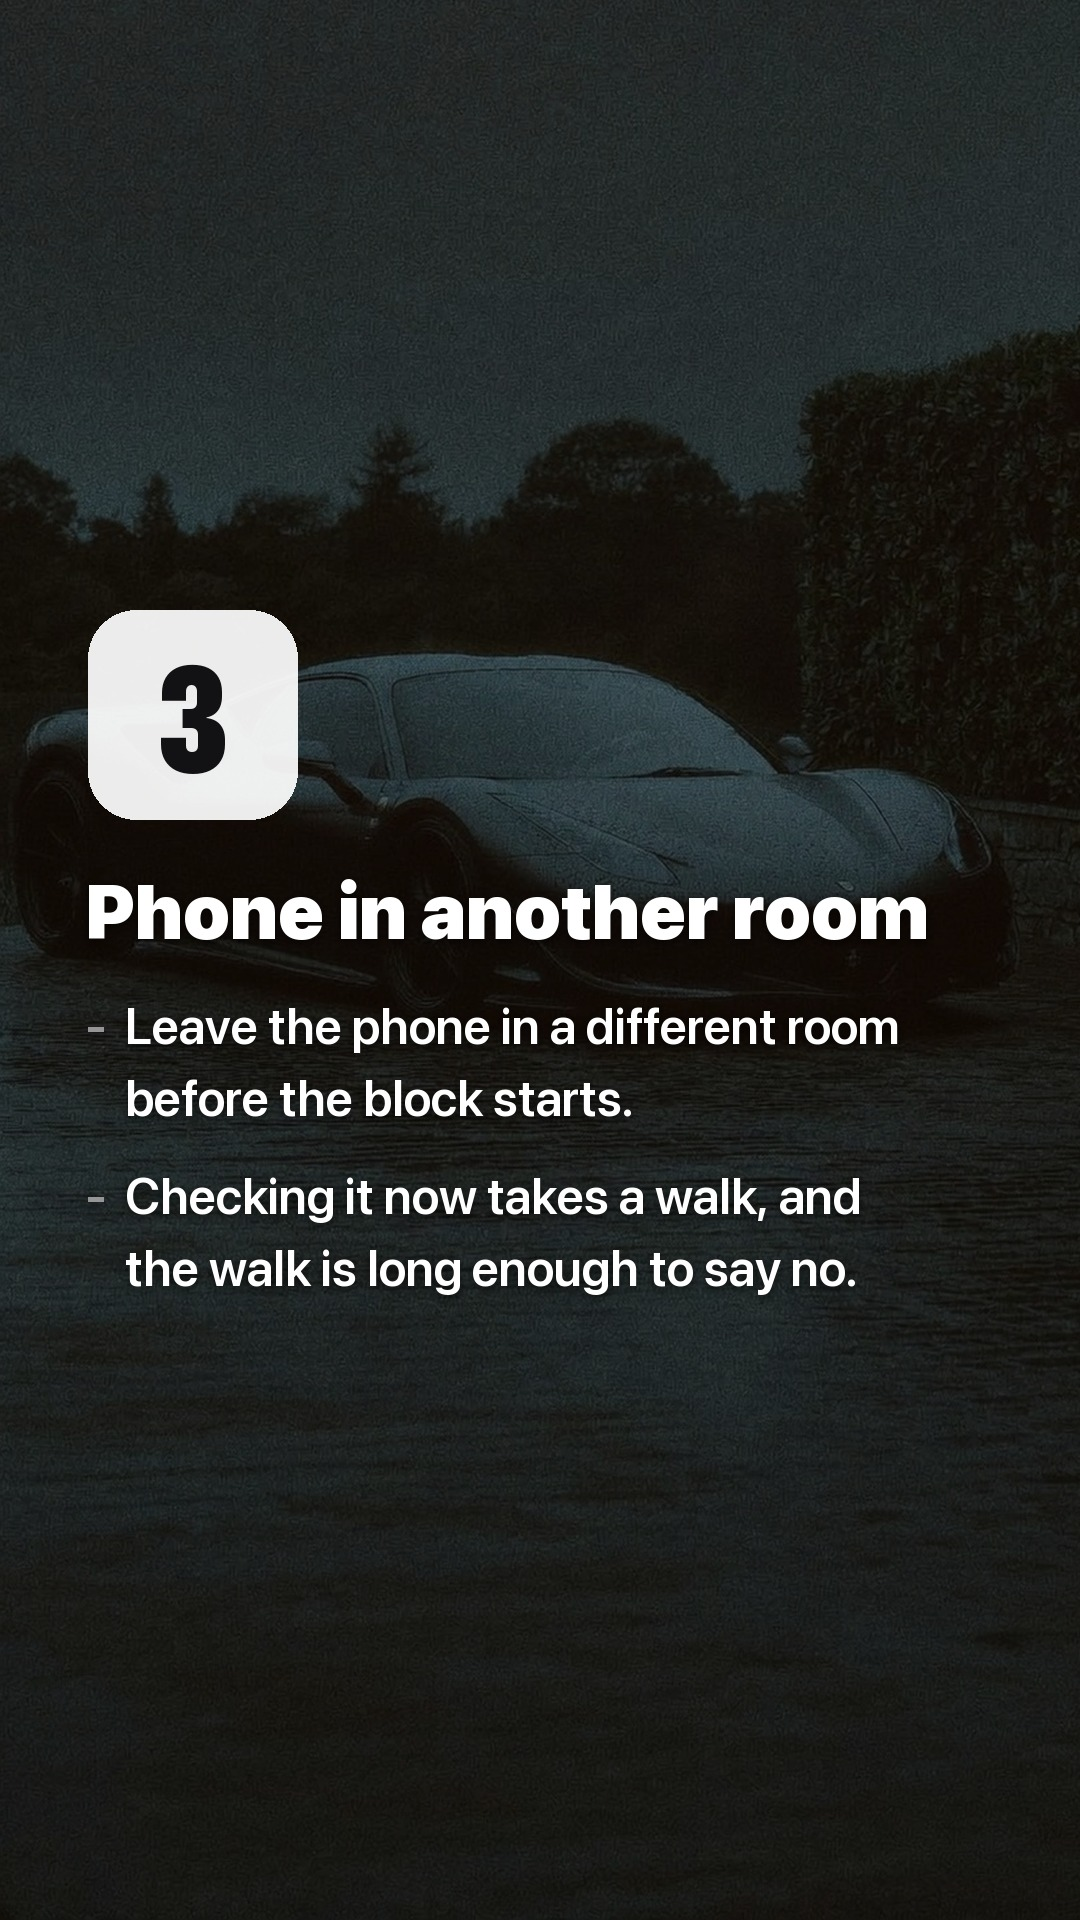
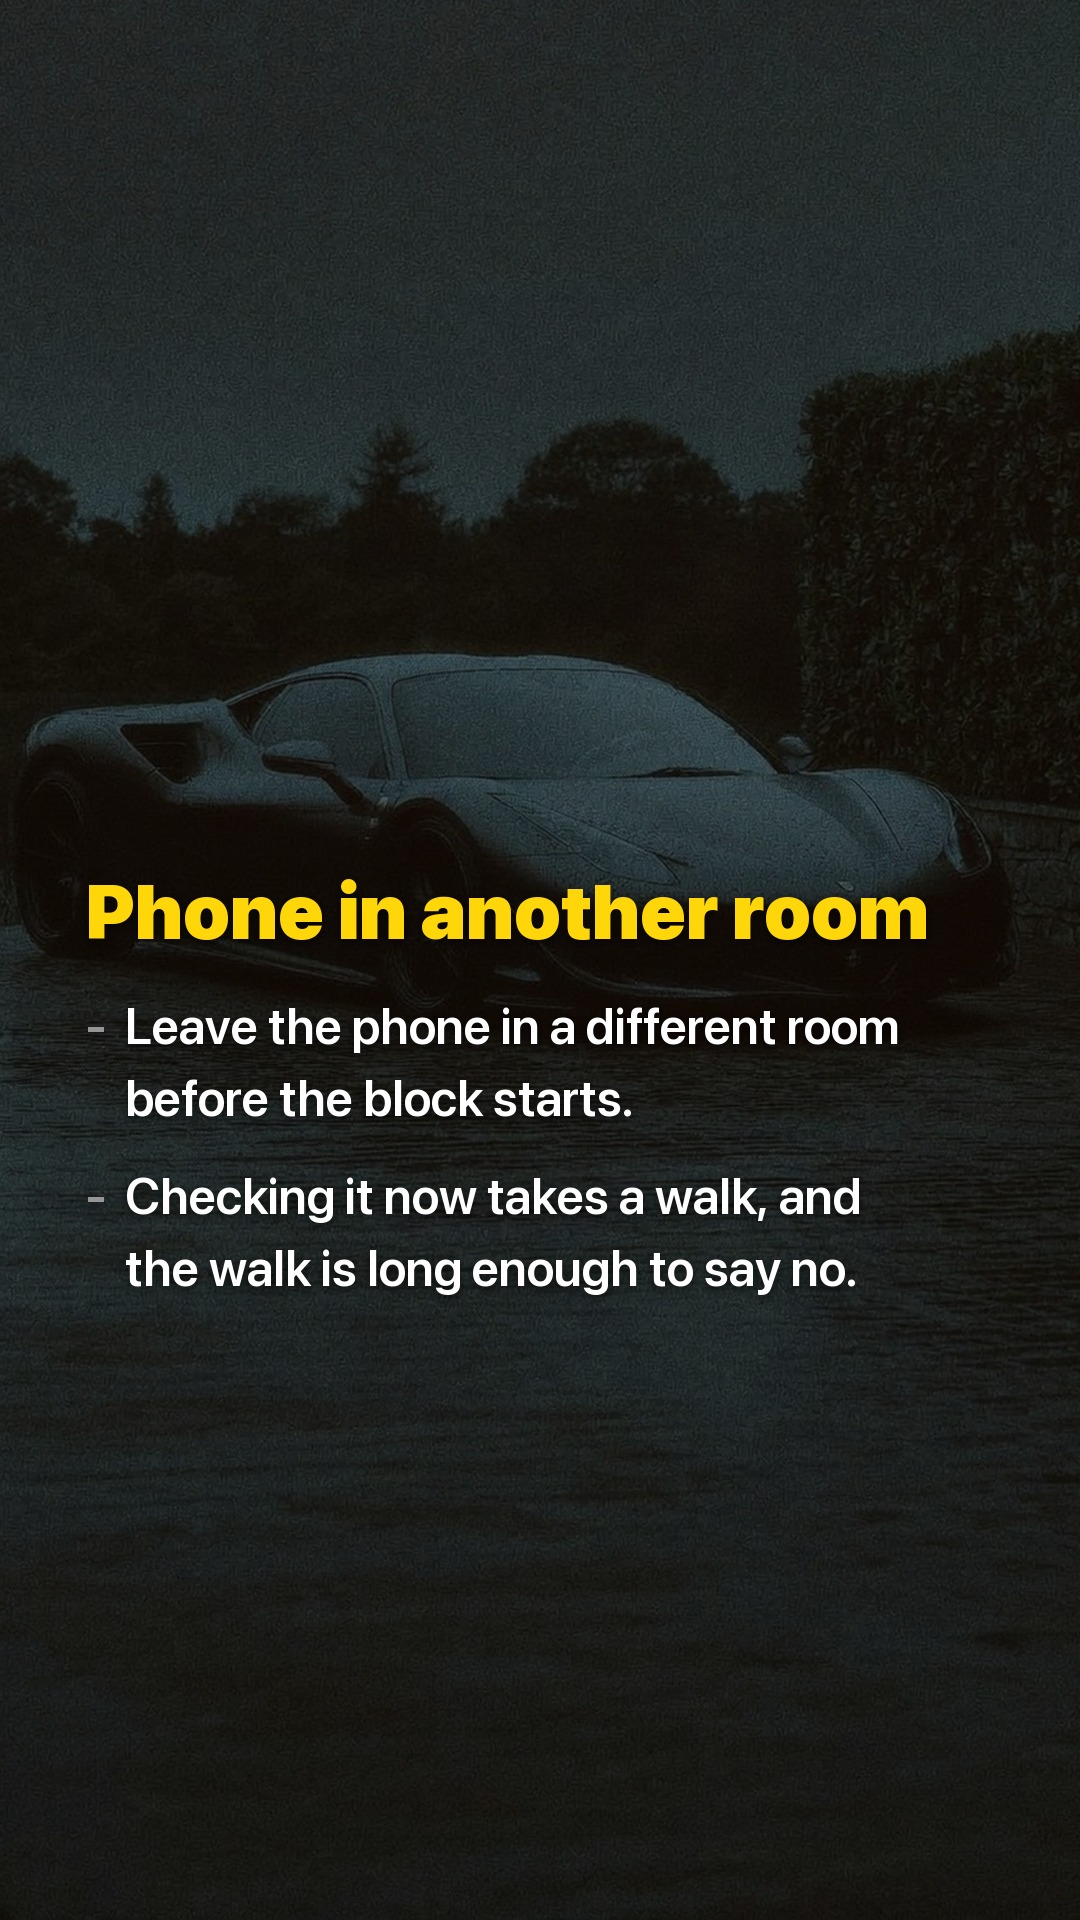
lock-in-anyway-4: drop the numbered squares on rules 02-05, yellow titles like screentime
Thinh: "remove the numbers and the squares, look at how screentime does it".
rule_slide badge=False, title_fill=YELLOW. Hook 01 and card 06 untouched.

Changed region(s): [[0.0611, 0.3125, 0.8556, 0.5]]

diff --git a/tools/gen-lock-in-anyway-4.py b/tools/gen-lock-in-anyway-4.py
@@ -26,6 +26,12 @@ to a dusk frame:
   04 rule 3   bg-h88  supercars-dusk     band luma 28.2
   05 rule 4   bg-n04  villa-day          band luma 57.8
   06 card     bg-h37  supercars-dusk     veiled under the card
+
+Fix pass (2026-09-29), Thinh's note on the first render: "remove the numbers
+and the squares, look at how screentime does it". Slides 02-05 drop the
+numbered badge and take the screentime-100h treatment, the title itself in
+yellow. The titles never carried an "N." so no number is left anywhere.
+Slides 01 and 06 had neither and are untouched.
 """
 import json, os, sys
 sys.path.insert(0, '/Users/thinh/SIXSIX/arco-app/tools')
@@ -93,7 +99,8 @@ if not any(e.get('topic') == TOPIC for e in hook_rules.history()):
     mark_hook_used(HOOK, TOPIC)
 
 for i, (title, body) in enumerate(RULES):
-    rule_slide(BGS[i + 1], i + 1, title, body, f'{OUT}/{i + 2:02d}.jpg')
+    rule_slide(BGS[i + 1], i + 1, title, body, f'{OUT}/{i + 2:02d}.jpg',
+               badge=False, title_fill=c.YELLOW)
 
 cta_slide(None, f'{OUT}/06.jpg', subtitle=CTA, promo=SEARCH, badge=True, card=veiled(BGS[5]),
           style={'icon': 240, 'box': (96, 984, 520, 1400), 'name_size': 62,
